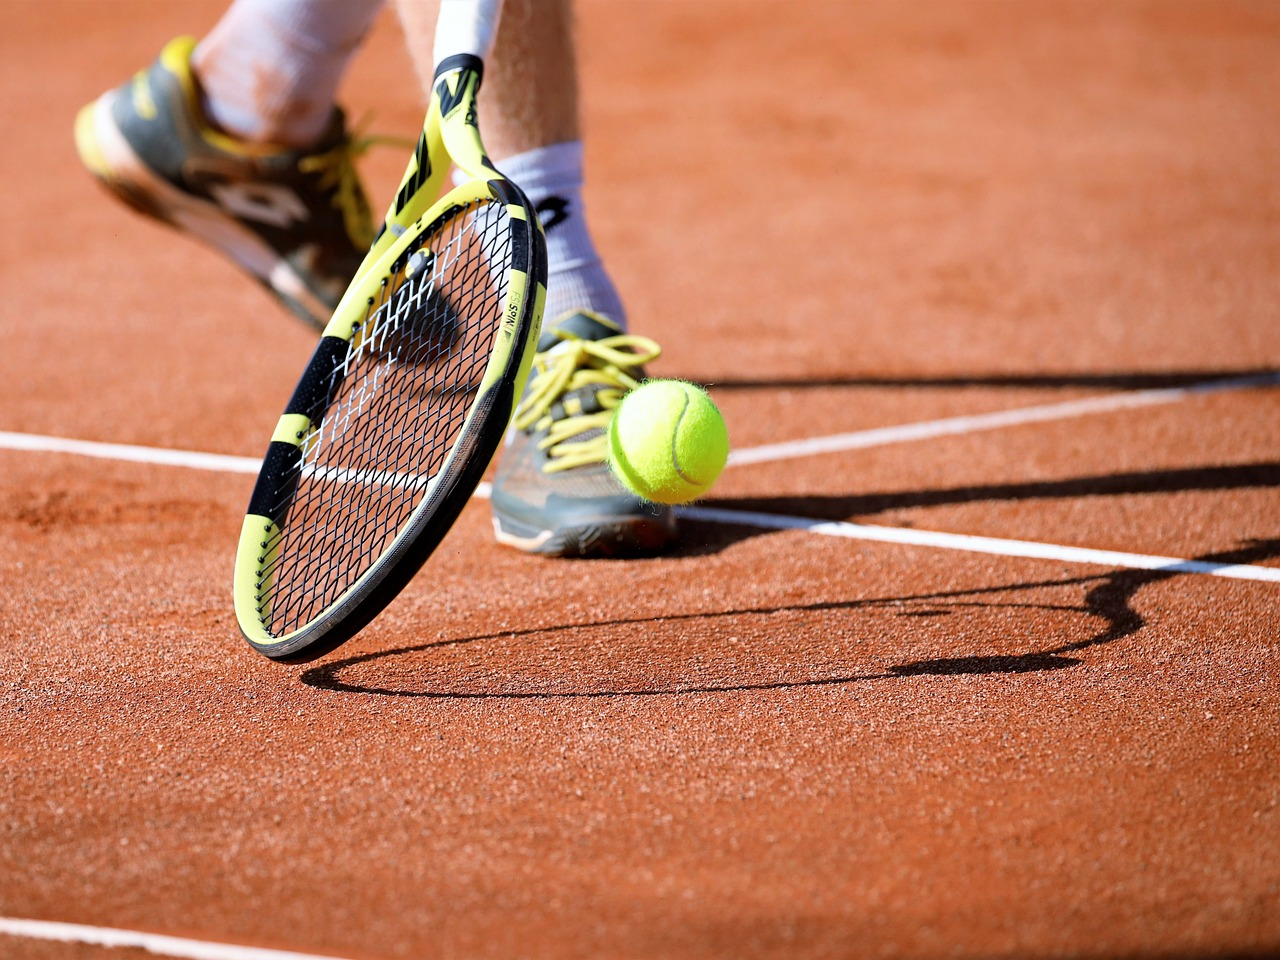
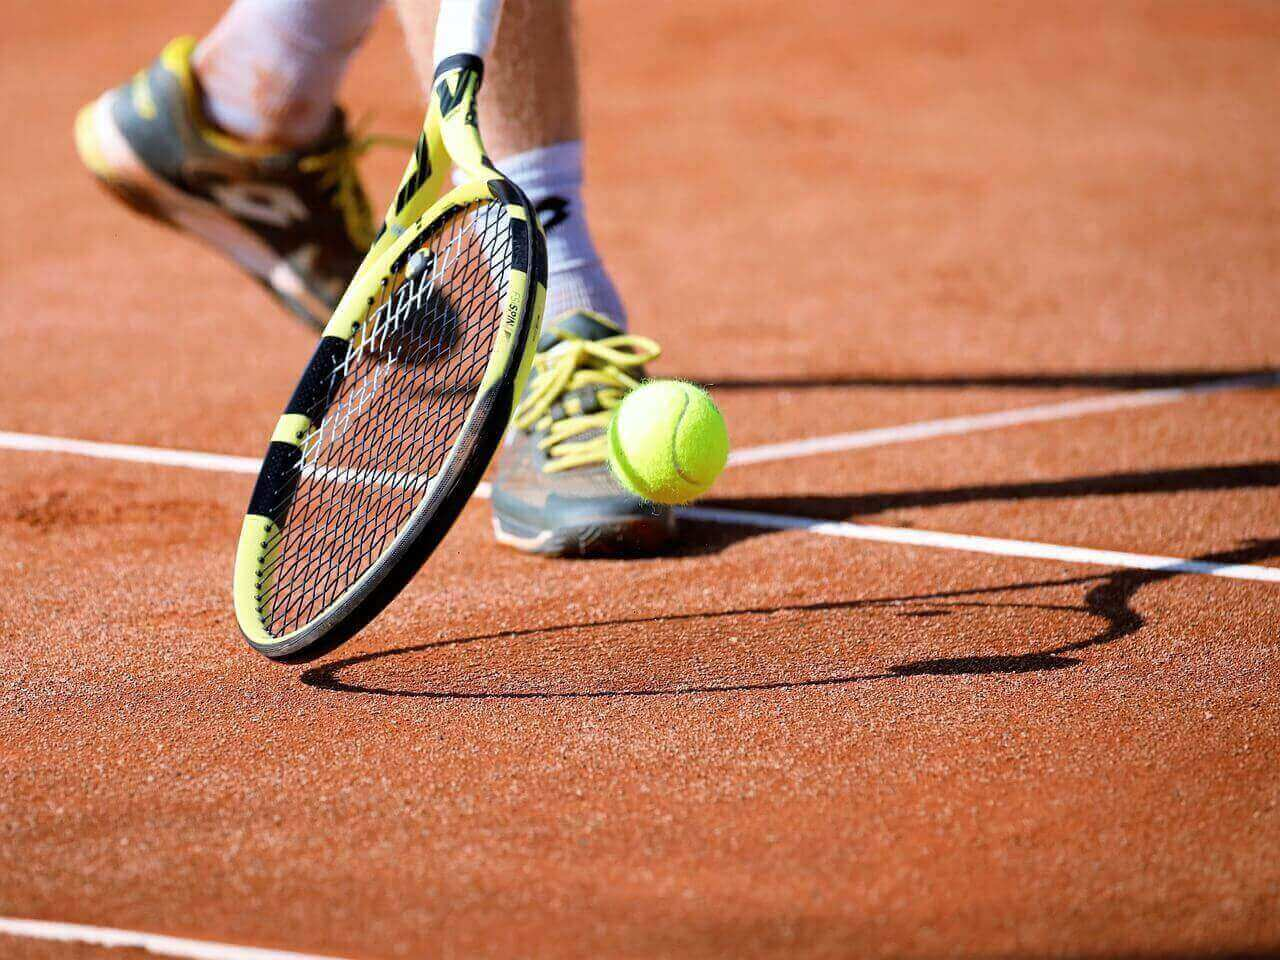
image size reduction and navbar modification

Changed region(s): [[0.0, 0.1562, 1.0, 0.7812], [0.3438, 0.0625, 0.375, 0.125]]

diff --git a/frontend/src/Components/Pages/CategoriesPage.js b/frontend/src/Components/Pages/CategoriesPage.js
@@ -38,16 +38,16 @@ const CategoriesPage = () => {
 function renderCategories() {
   const main = document.querySelector('main');
   main.innerHTML = `
-  <section class="pt-5" >
-  <div class=" container">
-     <h3> Les catégories </h3>
+  <section>
+  <div class="container-xxl">
+     <h4>Catégories</h4>
 </div>
   <div class="container-xxl">
   <div class="row mt-3">
   <div class="col-12 col-lg-3 col-md-6">
   <a href="#" data-uri="/" class=" text-center text-decoration-none category">
     <div class="card highlight-card" >
-      <img class="custom-img" src="${mathematicsImage}" alt="Image category mathematics">
+      <img class="custom-img img-fluid" src="${mathematicsImage}" alt="Image category mathematics">
       <div class="card-body">
         <p class="card-text">Mathématiques</p>
       </div>
@@ -58,7 +58,7 @@ function renderCategories() {
   <div class="col-12 col-lg-3 col-md-6">
   <a href="#" data-uri="/" class=" text-center text-decoration-none category">
     <div class="card highlight-card" >
-      <img class="custom-img" src="${historyImage}" alt="Image category history">
+      <img class="custom-img img-fluid" src="${historyImage}" alt="Image category history">
       <div class="card-body">
         <p class="card-text">Histoire</p>
       </div>
@@ -69,7 +69,7 @@ function renderCategories() {
   <div class="col-12 col-lg-3 col-md-6">
   <a href="#" data-uri="/" class=" text-center text-decoration-none category">
     <div class="card highlight-card" >
-      <img class="custom-img" src="${computerScienceImage}" alt="Image category computer science">
+      <img class="custom-img img-fluid" src="${computerScienceImage}" alt="Image category computer science">
       <div class="card-body">
         <p class="card-text">Informatique</p>
       </div>
@@ -80,7 +80,7 @@ function renderCategories() {
   <div class="col-12 col-lg-3 col-md-6">
   <a href="#" data-uri="/" class=" text-center text-decoration-none category">
     <div class="card highlight-card" >
-      <img class="custom-img" src="${languagesImage}" alt="Image category languages">
+      <img class="custom-img img-fluid" src="${languagesImage}" alt="Image category languages">
       <div class="card-body">
         <p class="card-text">Langues</p>
       </div>
@@ -93,7 +93,7 @@ function renderCategories() {
   <div class="col-12 col-lg-3 col-md-6">
   <a href="#" data-uri="/" class=" text-center text-decoration-none category">
     <div class="card highlight-card" >
-      <img class="custom-img" src="${sportImage}" alt="Image category sport">
+      <img class="custom-img img-fluid" src="${sportImage}" alt="Image category sport">
       <div class="card-body">
         <p class="card-text">Sport</p>
       </div>
@@ -104,7 +104,7 @@ function renderCategories() {
   <div class="col-12 col-lg-3 col-md-6">
   <a href="#" data-uri="/" class=" text-center text-decoration-none category">
     <div class="card highlight-card" >
-      <img class="custom-img" src="${scienceImage}" alt="Image category science">
+      <img class="custom-img img-fluid" src="${scienceImage}" alt="Image category science">
       <div class="card-body">
         <p class="card-text">Sciences</p>
       </div>
@@ -115,7 +115,7 @@ function renderCategories() {
   <div class="col-12 col-lg-3 col-md-6">
   <a href="#" data-uri="/" class=" text-center text-decoration-none category">
     <div class="card highlight-card" >
-      <img class="custom-img" src="${geographyImage}" alt="Image category geography">
+      <img class="custom-img img-fluid" src="${geographyImage}" alt="Image category geography">
       <div class="card-body">
         <p class="card-text">Géographie</p>
       </div>
@@ -126,7 +126,7 @@ function renderCategories() {
   <div class="col-12 col-lg-3 col-md-6">
   <a href="#" data-uri="/" class=" text-center text-decoration-none category">
     <div class="card highlight-card" >
-      <img class="custom-img" src="${generalCultureImage}" alt="Image category general culture">
+      <img class="custom-img img-fluid" src="${generalCultureImage}" alt="Image category general culture">
       <div class="card-body">
         <p class="card-text">Culture Générale</p>
       </div>
@@ -140,7 +140,7 @@ function renderCategories() {
       <div class="col-12 col-lg-3 col-md-6">
       <a href="#" data-uri="/" class=" text-center text-decoration-none category">
         <div class="card highlight-card" >
-          <img class="custom-img" src="${videoGamesImage}" alt="Image categorie video games">
+          <img class="custom-img img-fluid" src="${videoGamesImage}" alt="Image categorie video games">
           <div class="card-body">
             <p class="card-text">Jeux Vidéos</p>
           </div>
@@ -152,7 +152,7 @@ function renderCategories() {
           <div class="col-12 col-lg-3 col-md-6">
           <a href="#" data-uri="/" class=" text-center text-decoration-none category">
             <div class="card highlight-card" >
-              <img class="custom-img" src="${economyImage}" alt="Image category economy">
+              <img class="custom-img img-fluid" src="${economyImage}" alt="Image category economy">
               <div class="card-body">
                 <p class="card-text">Economie</p>
               </div>
@@ -163,7 +163,7 @@ function renderCategories() {
               <div class="col-12 col-lg-3 col-md-6">
               <a href="#" data-uri="/" class=" text-center text-decoration-none category">
                 <div class="card highlight-card" >
-                  <img class="custom-img" src="${cinemaImage}" alt="Image category cinema">
+                  <img class="custom-img img-fluid" src="${cinemaImage}" alt="Image category cinema">
                   <div class="card-body">
                     <p class="card-text">Cinéma</p>
                   </div>
@@ -174,7 +174,7 @@ function renderCategories() {
                   <div class="col-12 col-lg-3 col-md-6">
                   <a href="#" data-uri="/" class=" text-center text-decoration-none category">
                     <div class="card highlight-card" >
-                      <img class="custom-img" src="${otherImage}" alt="Image category other">
+                      <img class="custom-img img-fluid" src="${otherImage}" alt="Image category other">
                       <div class="card-body">
                         <p class="card-text">Autres</p>
                       </div>
@@ -182,6 +182,7 @@ function renderCategories() {
                   </a>
                   </div>     
                </div>
+
             </div>
      </section>`;
 }

diff --git a/frontend/src/Components/Navbar/Navbar.js b/frontend/src/Components/Navbar/Navbar.js
@@ -12,9 +12,12 @@ import logo from '../../img/logo.png';
 const Navbar = () => {
   const navbarWrapper = document.querySelector('#navbarWrapper');
   const navbar = `
-  <nav class="navbar navbar-expand-lg navbar-light bg-white fixed-top">
-        <div class="container-fluid">
-          <a class="navbar-brand" href="#"><img  class= "logo" src="${logo}" alt="Logo"></a>
+  <nav class="navbar navbar-expand-lg navbar-light bg-white">
+      
+       <div class="container-fluid">
+          <a class="navbar-brand" href="#"  data-uri="/" >
+          <img class= "logo" src="${logo}" alt="Logo">
+          </a>
           
           <button
             class="navbar-toggler"
@@ -30,7 +33,7 @@ const Navbar = () => {
           <div class="collapse navbar-collapse" id="navbarSupportedContent">
             <ul class="navbar-nav me-auto mb-2 mb-lg-0">
               <li class="nav-item">
-                <a class="nav-link" aria-current="page" href="#" data-uri="/">Home</a>
+                <a class="nav-link" aria-current="page" href="#" data-uri="/create">Home</a>
               </li>
               <li class="nav-item">
                 <a class="nav-link" href="#" data-uri="/game">Game</a>
@@ -46,17 +49,16 @@ const Navbar = () => {
               </li> 
               <li class="nav-item">
                 <a class="nav-link" href="#" data-uri="/ranking">Ranking</a>
-              </li> 
-                    
+              </li>  
             </ul>
 
-            <div class="row  mt-2">
-          <div class="col-md-2 text-center">
-          <a class="btn btn-sm btn-purple" href="#" data-uri="/login">Login</a>
-        
- 
+            <ul class="navbar-nav ms-auto mb-2 mb-lg-0">
+            <li class="nav-item">
+              <a class="btn btn-sm btn-purple" href="#" data-uri="/login">Login</a>
+            </li>
+          </ul>
+
         </div>
-          </div>
         </div>
       </nav>
   `;

diff --git a/frontend/src/stylesheets/main.css b/frontend/src/stylesheets/main.css
@@ -1,20 +1,21 @@
-/************************** Category page **************************/
 * {
   padding: 0;
   margin: 0;
 }
 
+/************************** Category page **************************/
+
+.custom-img {
+  max-height: 150px;
+  width: 100%;
+  object-fit: cover;
+}
+
 /************************** NavBar Part Start**************************/
 
-#logo {
-  height: 55px;
-}
-
 .logo {
-  height: 100px;
+  height: 70px;
 }
-
-/* Ajoutez ces styles dans votre fichier CSS */
 
 .btn-purple {
   background-color: #6f52f9;
@@ -22,19 +23,12 @@
   height : 40px;
 }
 
-/* Si vous souhaitez également réduire la taille du bouton */
 .btn-sm {
   font-size: 20px; 
 }
 
 
-/************************** NavBar Part End **************************/
-
-.imgaboutUsPage {
-  max-height: 500px;
-  width: 100%;
-  object-fit: cover;
-}
+/************************** HomePage *************************/
 
 .imagePInterro{
   height: 305px;
@@ -62,15 +56,7 @@
   background-size: cover;
 }
 
-.custom-img {
-  max-height: 150px;
-  width: 100%;
-  object-fit: cover;
-}
 
-.category {
-  margin-top: 20px;
-}
 
 .btn-color {
   background-color: #e6f5ff;
@@ -79,26 +65,6 @@
 .btn-style {
   background-color: #e6f5ff;
   width: 600px;
-}
-
-.container-xxl {
-  margin-top: 2%;
-  margin-bottom: 55px;
-}
-
-.footer-bypass {
-  margin-bottom: 55px;
-}
-
-footer {
-  position: fixed;
-  left: 0;
-  bottom: 0;
-  width: 100%;
-
-  color: black;
-  text-align: center;
-  height: 30px;
 }
 
 .color-purple {
